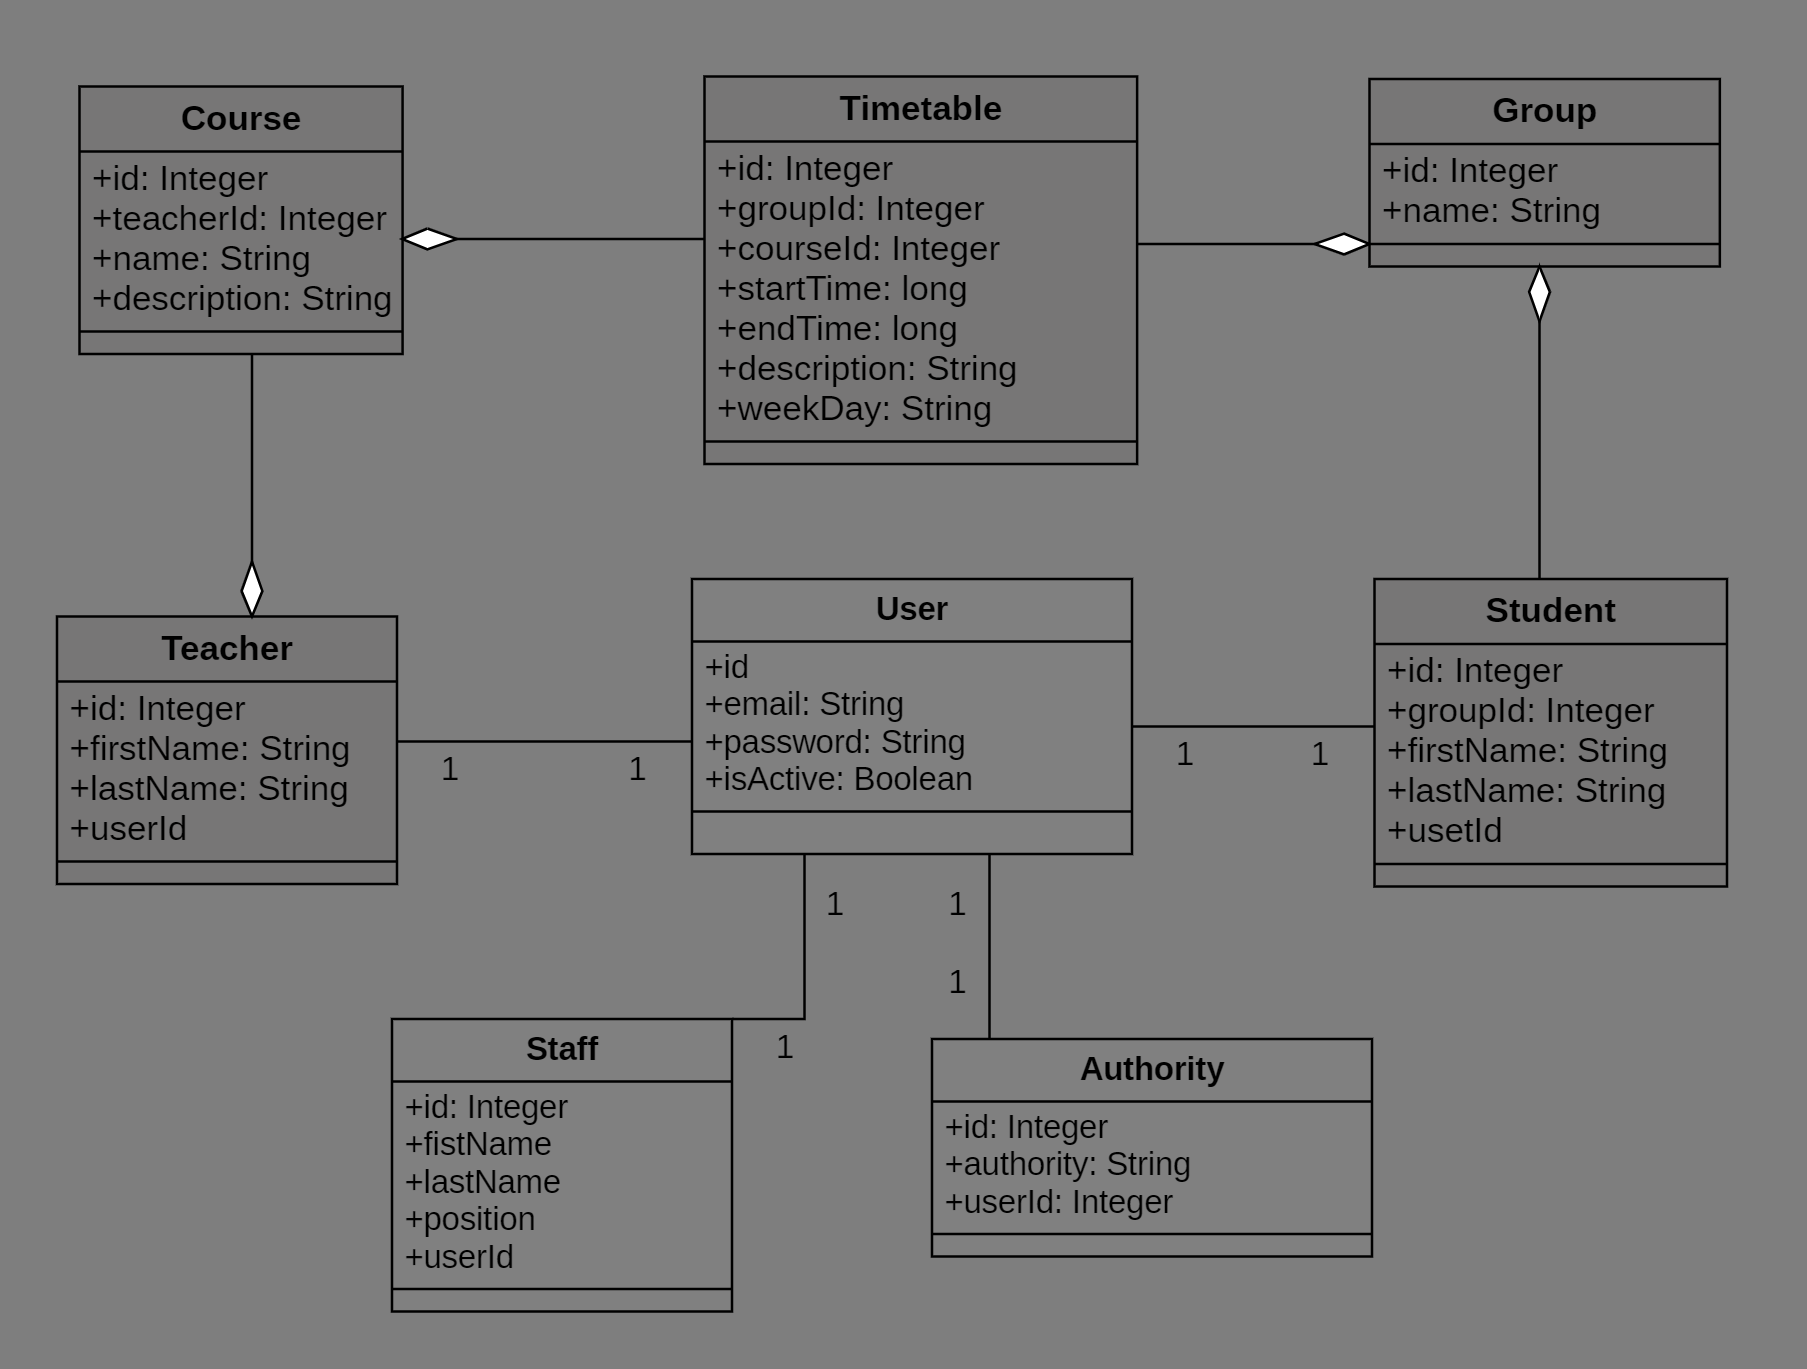
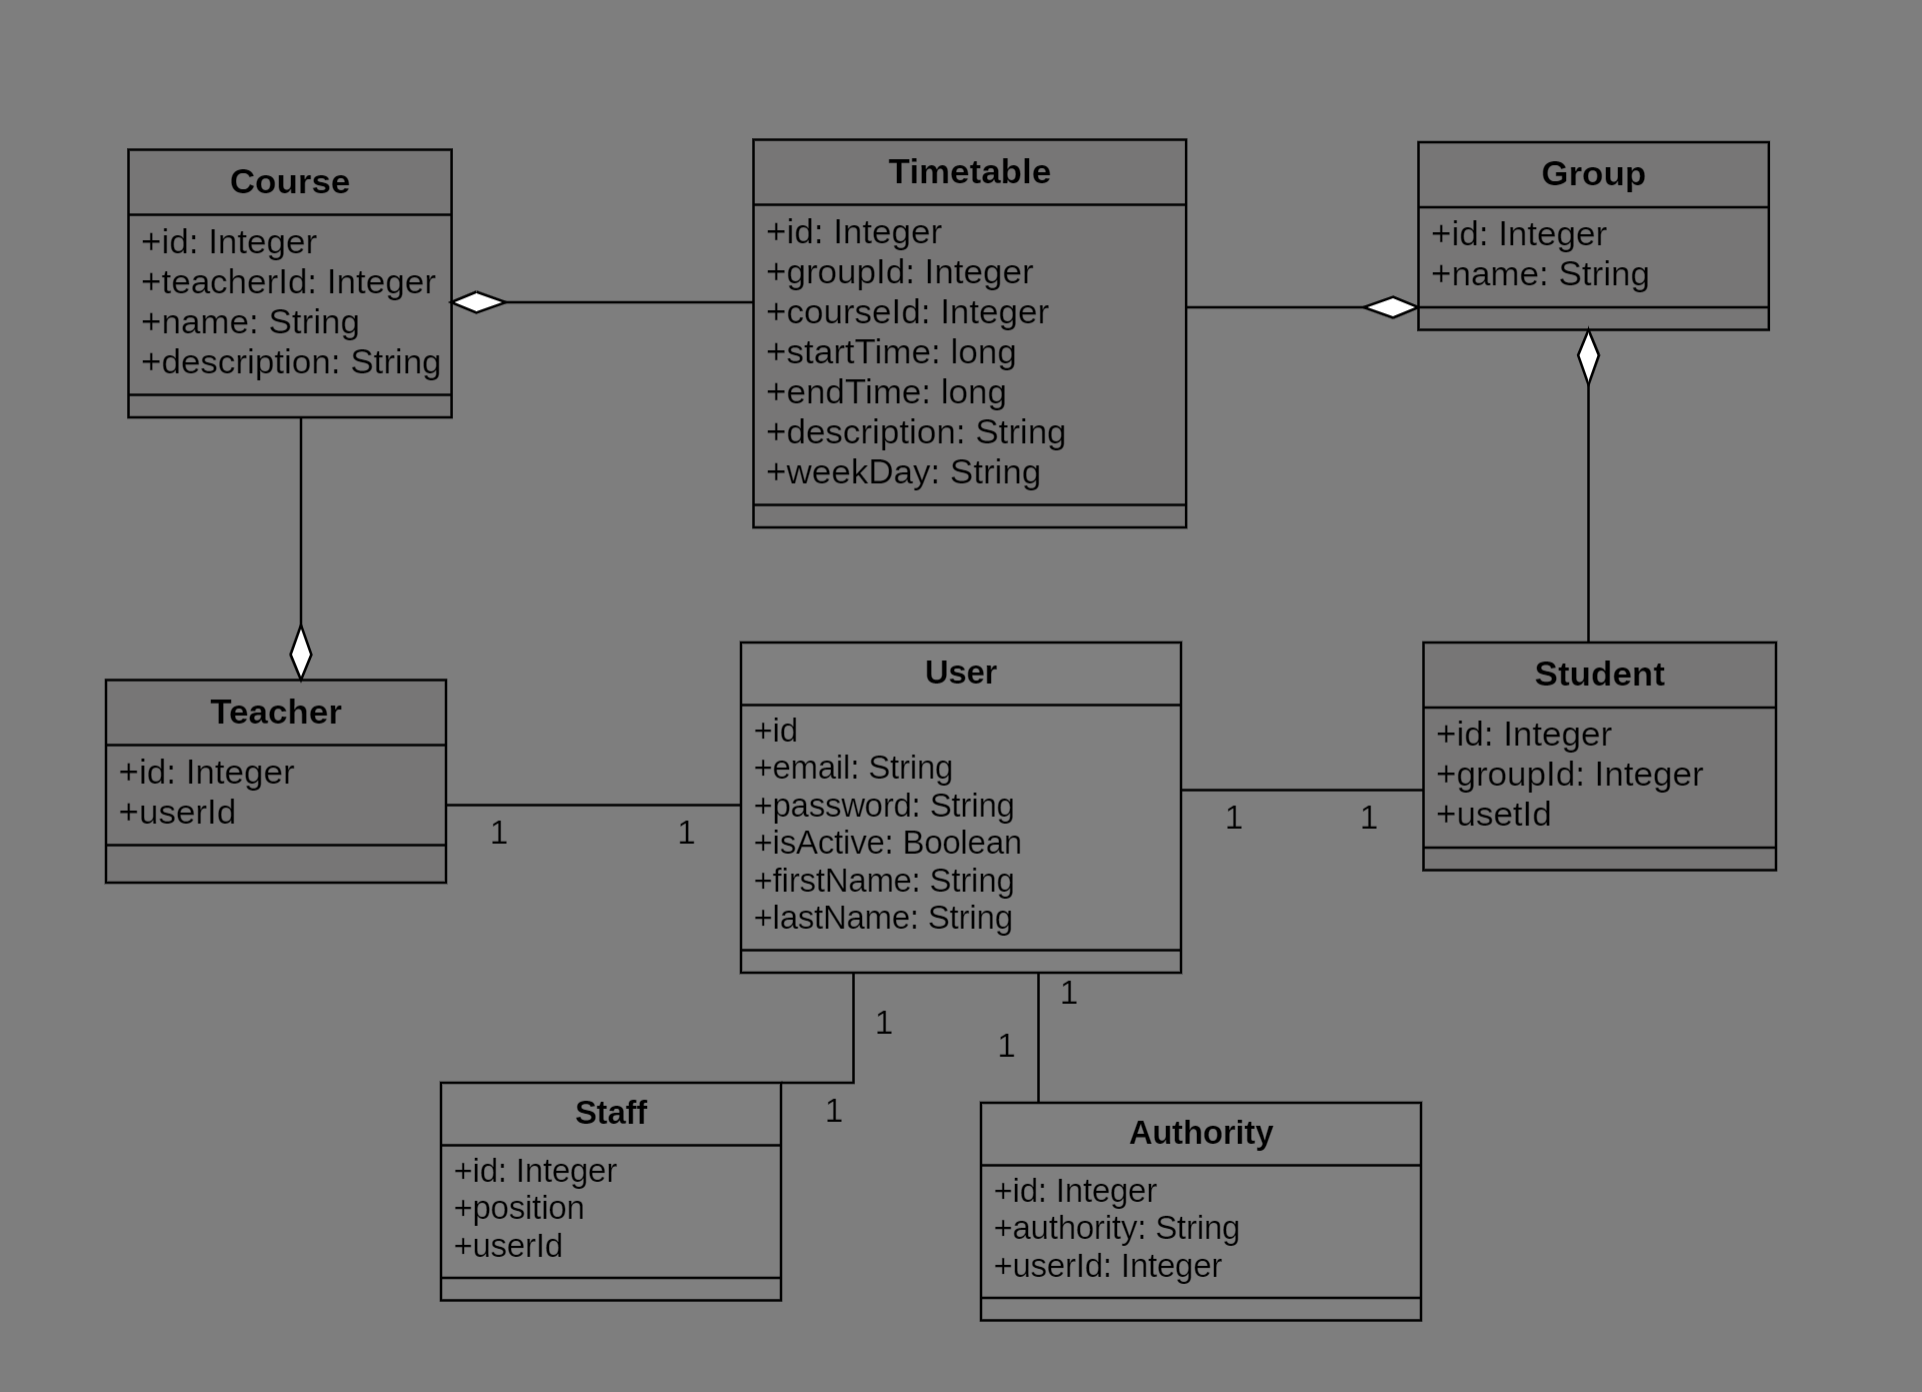
The users and authorities tables was transfered to the university schema. The private keys of that tables was replaced by id.

diff --git a/src/main/webapp/WEB-INF/templates/users/list.html b/src/main/webapp/WEB-INF/templates/users/list.html
@@ -152,12 +152,11 @@
               <div class="col-4" th:text="${user.lastName}">Jhonsonyuck</div>
              </div>
              <div class="row text-start mt-2">
-              <div class="col-3" th:text="|#{thead.email}: |">Email:
-              </div>
-              <div class="col-4" th:text="${user.email}"></div>
-              <div class="col-5">
-               <input class="form-control" type="email"
-                th:field="*{email}">
+              
+              <div class="col-3" th:text="|#{thead.email}: |">Email:</div>
+              <div class="col-4" th:text="${user.email}">email@com</div>
+              <div class="col-5"> 
+               <input class="form-control" type="email" th:field="*{email}">
               </div>
              </div>
              <div class="row text-start mt-2">
@@ -193,8 +192,7 @@
            <div class="modal-footer">
             <button type="button" class="btn btn-secondary"
              data-bs-dismiss="modal">Close</button>
-            <button type="submit" class="btn btn-primary" name="email"
-             th:value="${user.email}"
+            <button type="submit" class="btn btn-primary" name="userEmail" th:value="${user.email}"
              th:text="#{button.saveChange}">Save the change</button>
            </div>
           </div>

diff --git a/src/test/java/ua/com/foxminded/university/controller/UserControllerIntegrationTest.java b/src/test/java/ua/com/foxminded/university/controller/UserControllerIntegrationTest.java
@@ -33,6 +33,11 @@ import org.springframework.test.web.servlet.MockMvc;
 import org.springframework.test.web.servlet.request.MockMvcRequestBuilders;
 import org.springframework.test.web.servlet.result.MockMvcResultMatchers;
 import org.springframework.test.web.servlet.setup.MockMvcBuilders;
+import org.testcontainers.containers.PostgreSQLContainer;
+import org.testcontainers.junit.jupiter.Container;
+//import org.testcontainers.containers.PostgreSQLContainer;
+//import org.testcontainers.junit.jupiter.Testcontainers;
+import org.testcontainers.junit.jupiter.Testcontainers;
 
 import com.fasterxml.jackson.databind.ObjectMapper;
 import com.fasterxml.jackson.databind.ObjectWriter;
@@ -49,16 +54,22 @@ import ua.com.foxminded.university.model.Authority;
 import ua.com.foxminded.university.model.UserAuthorityModel;
 import ua.com.foxminded.university.model.UserModel;
 
+//@TestPropertySource(locations = {"/application.properties"})
+//@Testcontainers
 @AutoConfigureMockMvc
 @SpringBootTest
-@DirtiesContext(classMode = ClassMode.BEFORE_EACH_TEST_METHOD)
 class UserControllerIntegrationTest {
     
     public static final String USERS_EDIT_URL = "/users/edit";
     public static final String USERS_LIST_URL = "/users/list";
-    public static final String EMAIL_NAME = "email@com";
+    public static final String EMAIL_NAME = "gmail@com";
     public static final String PASSWORD = "password";
     public static final String NEW_PASSWORD = "newpassword";
+    
+//    @Container
+//    public static PostgreSQLContainer<?> container = new PostgreSQLContainer("postgres:latest")
+//            .withDatabaseName("university");
+    
     
 //    @PersistenceUnit
 //    private EntityManagerFactory entityManagerFactory; 
@@ -74,7 +85,8 @@ class UserControllerIntegrationTest {
     
     @BeforeEach
     void setup() {
-     //   mockMvc = MockMvcBuilders.standaloneSetup(userController).build();
+        mockMvc = MockMvcBuilders.standaloneSetup(userController).build();
+        
         
         PasswordEncoder encoder = PasswordEncoderFactories.createDelegatingPasswordEncoder();
         UserDetails user = User.builder().username(EMAIL_NAME)
@@ -84,7 +96,9 @@ class UserControllerIntegrationTest {
                                          .disabled(false)
                                          .build();
         userDetailsManager.createUser(user);
+        
     }
+    
     
     @Test
     void edit_shouldPerformEditingUserDetails() throws Exception {
@@ -100,6 +114,7 @@ class UserControllerIntegrationTest {
                .andDo(print())
                .andExpect(redirectedUrl(USERS_LIST_URL));
     }
+    
 /*
     @Test
     void authorize_shouldAuthorizeExistingUser() throws Exception {

diff --git a/src/test/java/ua/com/foxminded/university/controller/StudentControllerIntegrationTest.java b/src/test/java/ua/com/foxminded/university/controller/StudentControllerIntegrationTest.java
@@ -1,9 +1,8 @@
 package ua.com.foxminded.university.controller;
 
+import static org.junit.jupiter.api.Assertions.*;
 import static org.springframework.test.web.servlet.request.MockMvcRequestBuilders.get;
-import static org.springframework.test.web.servlet.result.MockMvcResultMatchers.model;
-import static org.springframework.test.web.servlet.result.MockMvcResultMatchers.status;
-import static org.springframework.test.web.servlet.result.MockMvcResultMatchers.view;
+import static org.springframework.test.web.servlet.result.MockMvcResultMatchers.*;
 
 import org.junit.jupiter.api.BeforeEach;
 import org.junit.jupiter.api.Test;
@@ -12,28 +11,36 @@ import org.springframework.boot.test.autoconfigure.web.servlet.AutoConfigureMock
 import org.springframework.boot.test.context.SpringBootTest;
 import org.springframework.test.web.servlet.MockMvc;
 import org.springframework.test.web.servlet.setup.MockMvcBuilders;
-import org.testcontainers.junit.jupiter.Container;
+import org.testcontainers.junit.jupiter.Testcontainers;
+
+import ua.com.foxminded.university.model.GroupModel;
+import ua.com.foxminded.university.model.StudentModel;
+import ua.com.foxminded.university.service.GroupService;
+import ua.com.foxminded.university.service.StudentService;
 
 @SpringBootTest
 @AutoConfigureMockMvc
+@Testcontainers
 class StudentControllerIntegrationTest {
     
-//    @Container
+    @Autowired
+    private StudentService<StudentModel> studentService;
     
     @Autowired
-    private StudentController studentController;
+    private GroupService<GroupModel> groupService;
     
     @Autowired
     private MockMvc mockMvc;
     
-    
     @BeforeEach
     void setup() {
-        mockMvc = MockMvcBuilders.standaloneSetup(studentController).build();
+        mockMvc = MockMvcBuilders.standaloneSetup(new StudentController(studentService, 
+                                                                        groupService))
+                                 .build();
     }
-
+    
     @Test
-    void getAllStudents_shouldRenderStudentLis() throws Exception {
+    void getAllStudents_shouldRenderStudentsList() throws Exception {
         mockMvc.perform(get("/students/list"))
                .andExpect(status().isOk())
                .andExpect(model().attributeExists("students"))

diff --git a/src/test/java/ua/com/foxminded/university/controller/StudentControllerTest.java b/src/test/java/ua/com/foxminded/university/controller/StudentControllerTest.java
@@ -6,10 +6,12 @@ import static org.springframework.test.web.servlet.result.MockMvcResultMatchers.
 import org.junit.jupiter.api.BeforeEach;
 import org.junit.jupiter.api.Test;
 import org.springframework.beans.factory.annotation.Autowired;
+import org.springframework.boot.test.autoconfigure.web.servlet.AutoConfigureMockMvc;
 import org.springframework.boot.test.autoconfigure.web.servlet.WebMvcTest;
 import org.springframework.boot.test.mock.mockito.MockBean;
 import org.springframework.test.web.servlet.MockMvc;
 import org.springframework.test.web.servlet.setup.MockMvcBuilders;
+import org.testcontainers.junit.jupiter.Testcontainers;
 
 import ua.com.foxminded.university.model.GroupModel;
 import ua.com.foxminded.university.model.StudentModel;
@@ -17,6 +19,8 @@ import ua.com.foxminded.university.service.GroupService;
 import ua.com.foxminded.university.service.StudentService;
 
 @WebMvcTest
+@AutoConfigureMockMvc
+@Testcontainers
 class StudentControllerTest {
     
     @MockBean

diff --git a/src/main/java/ua/com/foxminded/university/controller/UserController.java b/src/main/java/ua/com/foxminded/university/controller/UserController.java
@@ -32,14 +32,15 @@ public class UserController extends DefaultController {
         return "redirect:/users/list";
     }
     
-    @PostMapping(value = "/edit", params = {"email"})
-    public String edit(@RequestParam("email") String email, 
+    @PostMapping(value = "/edit", params = {"userEmail"})
+    public String edit(@RequestParam("userEmail") String userEmail, 
                        UserModel updatedUser, 
                        BindingResult bindingResult) throws ServiceException {
         if (bindingResult.hasErrors()) {
             handleBindingResultError(bindingResult);
         }
-        UserModel persistedUser = userService.getByEmail(email);
+        log.error(userEmail);
+        UserModel persistedUser = userService.getByEmail(userEmail);
         persistedUser.setEmail(updatedUser.getEmail());
         persistedUser.setEnabled(updatedUser.getEnabled());
         

diff --git a/src/main/java/ua/com/foxminded/university/service/UserServiceImpl.java b/src/main/java/ua/com/foxminded/university/service/UserServiceImpl.java
@@ -95,10 +95,14 @@ public class UserServiceImpl implements UserService<UserModel> {
     
     @Override
     public UserModel getByEmail(String email) throws ServiceException {
-        UserEntity entity = userRepository.findByEmail(email);
-        ModelMapper modelMapper = new ModelMapper();
-        modelMapper.getConfiguration().setMatchingStrategy(MatchingStrategies.STRICT);
-        return modelMapper.map(entity, UserModel.class);
+        try {
+            UserEntity entity = userRepository.findByEmail(email);
+            ModelMapper modelMapper = new ModelMapper();
+            modelMapper.getConfiguration().setMatchingStrategy(MatchingStrategies.STRICT);
+            return modelMapper.map(entity, UserModel.class);
+        } catch (IllegalArgumentException e) {
+            throw new ServiceException("Getting the email fails", e);
+        }
     }
     
     @Override

diff --git a/src/main/java/ua/com/foxminded/university/config/RepositoryConfig.java b/src/main/java/ua/com/foxminded/university/config/RepositoryConfig.java
@@ -5,6 +5,7 @@ import java.util.Properties;
 import javax.sql.DataSource;
 
 import org.flywaydb.core.Flyway;
+//import org.flywaydb.core.Flyway;
 import org.springframework.beans.factory.annotation.Autowired;
 import org.springframework.boot.autoconfigure.flyway.FlywayConfigurationCustomizer;
 import org.springframework.boot.autoconfigure.flyway.FlywayMigrationStrategy;
